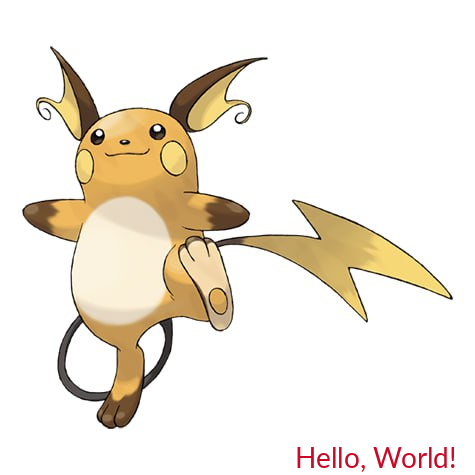
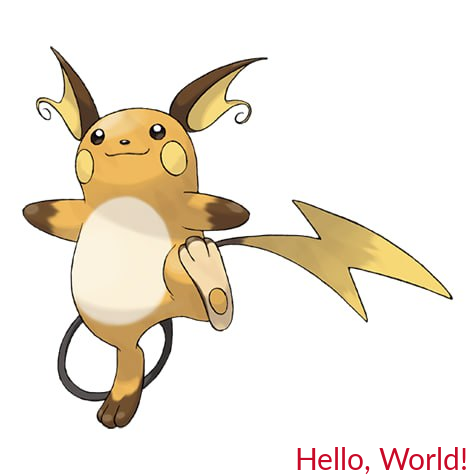
final result

Changed region(s): [[0.6189, 0.9432, 1.0, 1.0]]

diff --git a/Semester_2/Lesson_31/task.py b/Semester_2/Lesson_31/task.py
@@ -10,12 +10,17 @@ def txt_on_pics(file_read, file_write):
         pics = os.listdir(file_read)
     except FileNotFoundError as error:
         return error
+    
+    font_path = "/usr/share/fonts/truetype/freefont/lato/Lato-Regular.ttf"
+    font_size = 30
+    txt_color = (255, 0, 0)
 
     for pic in pics:
-        pic_format = pic[pic.index(".") + 1 :]
+        pic_format = pic[pic.index(".") + 1 :].lower()
 
         if pic_format in ("jpeg", "jpg", "png"):
             pic_path = os.path.join(file_read, pic)
+
             try:
                 with Image.open(pic_path) as img:
                     img.load()
@@ -28,22 +33,20 @@ def txt_on_pics(file_read, file_write):
             # Drawing Hello, World! into picture
             draw = ImageDraw.Draw(img)
             txt = "Hello, World!"
-            fnt = ImageFont.truetype(
-                "/usr/share/fonts/truetype/freefont/lato/Lato-Regular.ttf", 28
-            )
-            position = (img.height - 180, img.width - 30)
+            fnt = ImageFont.truetype(font_path, font_size)
+            position = (img.width - 180, img.height - 30)
             txt_color = (200, 10, 40)
             draw.text(position, txt, fill=txt_color, font=fnt)
 
             if pic_format == "png":
-                format = "jpg"
+                output_format = "jpg"
             elif pic_format in ("jpg", "jpeg"):
-                format = "png"
+                output_format = "png"
 
-            pic_abs = pic[: pic.index(".")]
-            pic_save_path = os.path.join(file_write, f"{pic_abs}.{format}")
+            pic_abs = os.path.splitext(pic)[0]
+            pic_save_path = os.path.join(file_write, f"{pic_abs}.{output_format}")
 
-            img.save(pic_save_path, format)
+            img.save(pic_save_path, output_format)
 
     return "Success"
 
